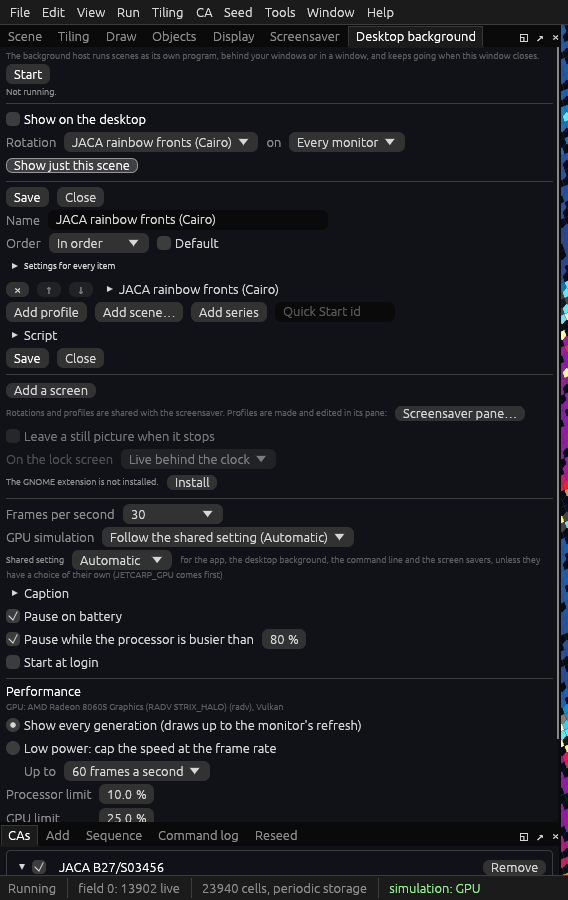
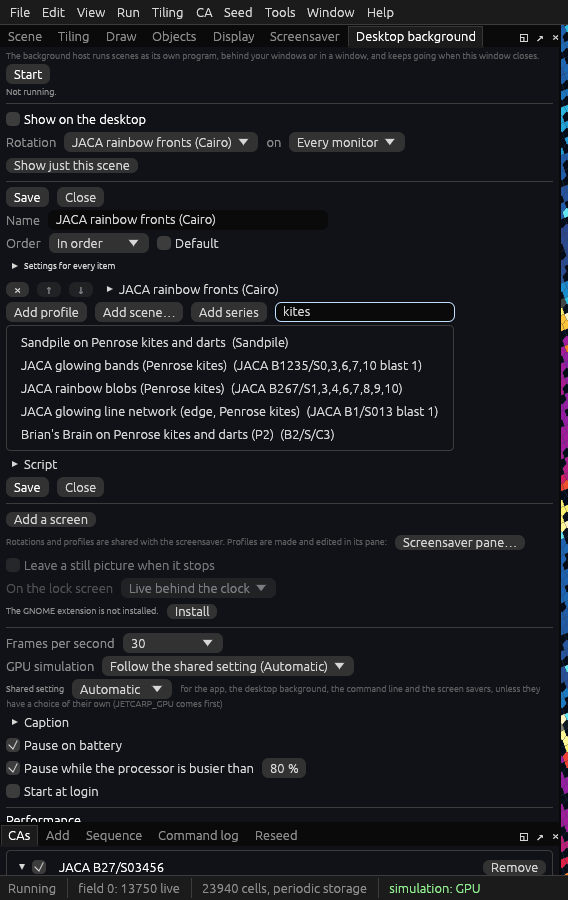
Book: the app as rc.3 has it: the tour's menus and panes, the rotation editor's Quick Start search, animation export, rule boxes, Width × height
- Tour: the Desktop background pane in the panes table, and the Screensaver pane
  without the background host it no longer holds; the menus checked against the
  app's menu table (View: Desktop background settings…, the Display pane; Tiling:
  Paste tile JSON…; Seed: Clear every CA); Run → GPU adapter beside GPU simulation.
- Rotations guide: a new picture of the editor, with kites typed into the Add
  Quick Start box and the entries it lists (#74), alt text to match.
- Pictures guide: Export animation's 2,000-frame limit, that an animation carries
  no scene, and Render media by its full name (#62); the scenes guide says app
  animations carry no scene either.
- Several automata: the rule box applies on Enter or losing focus, Esc gives up
  the edit (#61).
- HashLife guide: the jump's hover text as it now reads, with how to make a grid
  it can jump (#58); neighbour graphs: the Tiling pane's Size choices.

shots.rs: the rotation editor's picture types kites into the Add Quick Start
box and moves the pointer off the pane. Made with the offscreen harness in
scratch folders (JETCARP_CONFIG_DIR='~/.config/jetcarp' from a scratch folder),
as lossless WebP. The MCP server's copy of the book follows.

diff --git a/crates/jetcarp-app/src/app/shots.rs b/crates/jetcarp-app/src/app/shots.rs
@@ -580,9 +580,10 @@ fn shots_desktop_pane_cards() {
 /// Windows test had, JACA rainbow fronts on Cairo pentagons), the pane before and after *Show just
 /// this scene*: the scene saved as a profile and as a rotation of just that profile, the screen
 /// running it, the screensaver's choice untouched; pressed again, nothing more is made. Then the
-/// editor opened from the pane, with Save and Close above it, and a new rotation saved there,
-/// chosen for the screen alone. Pictures: `desktop-just-*.png`; `desktop-just-editor.png` is the
-/// book's `guides/rotation-editor-desktop-pane.webp` (`guides/rotations.md`).
+/// editor opened from the pane, with Save and Close above it and `kites` typed into its Add Quick
+/// Start box (#74), and a new rotation saved there, chosen for the screen alone. Pictures:
+/// `desktop-just-*.png`; `desktop-just-editor.png` is the book's
+/// `guides/rotation-editor-desktop-pane.webp` (`guides/rotations.md`).
 #[test]
 #[ignore]
 fn shots_desktop_show_just_this_scene() {
@@ -674,6 +675,14 @@ fn shots_desktop_show_just_this_scene() {
         top(&h, "Save").max.y < top(&h, "Name").min.y,
         "Save above the name"
     );
+    // The Add Quick Start box searched (#74): the entries matching what is typed, to click.
+    h.click_right_of("Add series");
+    h.frame_with(0.05, vec![egui::Event::Text("kites".into())]);
+    h.run(0.5, 0.05, |_| false);
+    h.find("Brian's Brain on Penrose kites and darts (P2)");
+    // The pointer off the pane, so no hover text covers the list.
+    let [w, ht] = h.o.size();
+    h.hover(egui::pos2(w as f32 - 2.0, ht as f32 - 2.0));
     h.steady();
     h.shot_part("desktop-just-editor", pane);
     let close = top(&h, "Close");

diff --git a/crates/jetcarp-mcp/resources/docs/getting-started/tour.md b/crates/jetcarp-mcp/resources/docs/getting-started/tour.md
@@ -65,8 +65,10 @@ one.) The world opens running, with the grid on the right and the panes on the l
   *Max speed* runs as fast as the computer can, and *GPU simulation* chooses where the world steps:
   *Follow the shared setting* (the default: the [GPU setting](../guides/gpu.md) all of JETCARP
   shares, which is automatic and puts worlds of 16,000 cells or more on the graphics card), *On*
-  every world it can run, *Off* none. The results are exactly the same. *Run → Jump* leaps far ahead with HashLife, for the rules it can
-  run (see [HashLife and very long runs](../guides/hashlife.md)).
+  every world it can run, *Off* none. The results are exactly the same. *GPU adapter*, below it,
+  chooses which graphics card JETCARP uses, on a computer with two (see
+  [The GPU](../guides/gpu.md#the-setting)). *Run → Jump* leaps far ahead with HashLife, for
+  the rules it can run (see [HashLife and very long runs](../guides/hashlife.md)).
 - **The menu bar's right end** shows the scene's name, whether it is running, the generation, the
   first digits of the [state hash](../guides/scenes.md#the-state-hash) (click it to copy all of it)
   and the frame rate. **The status bar** says whether the world is still changing, and counts its
@@ -89,7 +91,8 @@ The panes are in two groups of tabs, upper and lower:
 | *Draw* | The mouse's tool (*Pan*, *Draw* or *Erase*), which automaton it paints *Into*, and the state it paints | [Several automata at once](../guides/several-automata.md#in-the-app) |
 | *Objects* | *Find objects*: the still lifes, oscillators and spaceships in the world now, counted, and highlighted when you click a row | [Life on a new tiling](../tutorials/life-on-a-new-tiling.md) |
 | *Display* | Where the grid shows (this window, full screen, or full-screen *Outputs* on chosen monitors) and the cell size in pixels | [Wallpapers](../guides/wallpapers.md#screensaver-mode-in-the-app) |
-| *Screensaver* | Screensaver mode, its profiles and rotations, and the background host | [Wallpapers](../guides/wallpapers.md) |
+| *Screensaver* | Screensaver mode, its profiles and rotations, and the system screen saver's rotation | [Wallpapers](../guides/wallpapers.md#screensaver-mode-in-the-app) |
+| *Desktop background* | The background host: each screen's rotation and monitor, the lock screen, the still picture, how it runs, and *Fit to this computer* | [Wallpapers](../guides/wallpapers.md#the-desktop-background-pane) |
 | *CAs* | Each automaton in the world: its rule, neighbours, field, steps per generation, colouring and palette, with *Seed*, *Random* and *Clear* | [Several automata at once](../guides/several-automata.md), [Palettes](../guides/palettes.md) |
 | *Add* | Add an automaton from the catalog of named rules or by its notation, or load a rule table | [Rule notation](../reference/rule-notation.md), [Named rules](../automata/named-rules.md) |
 | *Sequence* | A scripted sequence: which automata run, and when to move on | [Several automata at once](../guides/several-automata.md) |
@@ -109,11 +112,11 @@ and *Window → Reset layout* puts everything back:
 | --- | --- |
 | *File* | *Quick Start*, *New empty world*, *Open scene…* and *Save scene…*, the picture exports (*Export the world as PNG…*, *Export the view as PNG…*, *Export animation (GIF or WebP)…*, *Export contact sheet…*, *Export wallpaper…*), *Quit* |
 | *Edit* | *Reset* (R: clear and seed every automaton again), *Clear every CA*, *Copy state hash*, *Paste a library pattern…* |
-| *View* | *Fit* and zoom, *Cell outlines*, the status bar and an auto-hiding menu bar, *Hide all panes*, *Pixel-exact zoom*, *Fill the canvas*, *Full screen*, *Show on outputs*, *Screensaver mode* and its settings, *Keep awake* |
+| *View* | *Fit* and zoom, *Cell outlines*, the status bar and an auto-hiding menu bar, *Hide all panes*, *Pixel-exact zoom*, *Fill the canvas*, *Full screen*, *Show on outputs*, *Screensaver mode* and its settings, *Desktop background settings…*, *Keep awake*, the *Display* pane |
 | *Run* | *Run / Pause*, *Step*, *Jump*, *Speed*, *Max speed*, *GPU simulation*, *GPU adapter* |
-| *Tiling* | The *Tiling* pane, *Family*, *Edges*, *Tiling catalog*, *Tile editor…*, *Unit cell editor…* |
+| *Tiling* | The *Tiling* pane, *Family*, *Edges*, *Tiling catalog*, *Tile editor…*, *Unit cell editor…*, *Paste tile JSON…* |
 | *CA* | *Add from catalog*, *Add by notation…*, *Load rule table…*, the *CAs* and *Sequence* panes, *Palettes…* |
-| *Seed* | *Seed every CA*, *Random cells in every CA*, each automaton's seed, *Reset*, the *Reseed* pane, *Reseed now*, *Auto reseed* |
+| *Seed* | *Seed every CA*, *Random cells in every CA*, each automaton's seed, *Clear every CA*, *Reset*, the *Reseed* pane, *Reseed now*, *Auto reseed* |
 | *Tools* | The tool windows below, *Sweep this world…*, the *Objects* pane |
 | *Window* | Every pane and tool window, *Hide all panes*, *Reset layout*, *Displays* |
 | *Help* | *Setup…* (the setup window again), *Keyboard shortcuts…* (F1), *About JETCARP…* |

diff --git a/docs/src/getting-started/tour.md b/docs/src/getting-started/tour.md
@@ -65,8 +65,10 @@ one.) The world opens running, with the grid on the right and the panes on the l
   *Max speed* runs as fast as the computer can, and *GPU simulation* chooses where the world steps:
   *Follow the shared setting* (the default: the [GPU setting](../guides/gpu.md) all of JETCARP
   shares, which is automatic and puts worlds of 16,000 cells or more on the graphics card), *On*
-  every world it can run, *Off* none. The results are exactly the same. *Run → Jump* leaps far ahead with HashLife, for the rules it can
-  run (see [HashLife and very long runs](../guides/hashlife.md)).
+  every world it can run, *Off* none. The results are exactly the same. *GPU adapter*, below it,
+  chooses which graphics card JETCARP uses, on a computer with two (see
+  [The GPU](../guides/gpu.md#the-setting)). *Run → Jump* leaps far ahead with HashLife, for
+  the rules it can run (see [HashLife and very long runs](../guides/hashlife.md)).
 - **The menu bar's right end** shows the scene's name, whether it is running, the generation, the
   first digits of the [state hash](../guides/scenes.md#the-state-hash) (click it to copy all of it)
   and the frame rate. **The status bar** says whether the world is still changing, and counts its
@@ -89,7 +91,8 @@ The panes are in two groups of tabs, upper and lower:
 | *Draw* | The mouse's tool (*Pan*, *Draw* or *Erase*), which automaton it paints *Into*, and the state it paints | [Several automata at once](../guides/several-automata.md#in-the-app) |
 | *Objects* | *Find objects*: the still lifes, oscillators and spaceships in the world now, counted, and highlighted when you click a row | [Life on a new tiling](../tutorials/life-on-a-new-tiling.md) |
 | *Display* | Where the grid shows (this window, full screen, or full-screen *Outputs* on chosen monitors) and the cell size in pixels | [Wallpapers](../guides/wallpapers.md#screensaver-mode-in-the-app) |
-| *Screensaver* | Screensaver mode, its profiles and rotations, and the background host | [Wallpapers](../guides/wallpapers.md) |
+| *Screensaver* | Screensaver mode, its profiles and rotations, and the system screen saver's rotation | [Wallpapers](../guides/wallpapers.md#screensaver-mode-in-the-app) |
+| *Desktop background* | The background host: each screen's rotation and monitor, the lock screen, the still picture, how it runs, and *Fit to this computer* | [Wallpapers](../guides/wallpapers.md#the-desktop-background-pane) |
 | *CAs* | Each automaton in the world: its rule, neighbours, field, steps per generation, colouring and palette, with *Seed*, *Random* and *Clear* | [Several automata at once](../guides/several-automata.md), [Palettes](../guides/palettes.md) |
 | *Add* | Add an automaton from the catalog of named rules or by its notation, or load a rule table | [Rule notation](../reference/rule-notation.md), [Named rules](../automata/named-rules.md) |
 | *Sequence* | A scripted sequence: which automata run, and when to move on | [Several automata at once](../guides/several-automata.md) |
@@ -109,11 +112,11 @@ and *Window → Reset layout* puts everything back:
 | --- | --- |
 | *File* | *Quick Start*, *New empty world*, *Open scene…* and *Save scene…*, the picture exports (*Export the world as PNG…*, *Export the view as PNG…*, *Export animation (GIF or WebP)…*, *Export contact sheet…*, *Export wallpaper…*), *Quit* |
 | *Edit* | *Reset* (R: clear and seed every automaton again), *Clear every CA*, *Copy state hash*, *Paste a library pattern…* |
-| *View* | *Fit* and zoom, *Cell outlines*, the status bar and an auto-hiding menu bar, *Hide all panes*, *Pixel-exact zoom*, *Fill the canvas*, *Full screen*, *Show on outputs*, *Screensaver mode* and its settings, *Keep awake* |
+| *View* | *Fit* and zoom, *Cell outlines*, the status bar and an auto-hiding menu bar, *Hide all panes*, *Pixel-exact zoom*, *Fill the canvas*, *Full screen*, *Show on outputs*, *Screensaver mode* and its settings, *Desktop background settings…*, *Keep awake*, the *Display* pane |
 | *Run* | *Run / Pause*, *Step*, *Jump*, *Speed*, *Max speed*, *GPU simulation*, *GPU adapter* |
-| *Tiling* | The *Tiling* pane, *Family*, *Edges*, *Tiling catalog*, *Tile editor…*, *Unit cell editor…* |
+| *Tiling* | The *Tiling* pane, *Family*, *Edges*, *Tiling catalog*, *Tile editor…*, *Unit cell editor…*, *Paste tile JSON…* |
 | *CA* | *Add from catalog*, *Add by notation…*, *Load rule table…*, the *CAs* and *Sequence* panes, *Palettes…* |
-| *Seed* | *Seed every CA*, *Random cells in every CA*, each automaton's seed, *Reset*, the *Reseed* pane, *Reseed now*, *Auto reseed* |
+| *Seed* | *Seed every CA*, *Random cells in every CA*, each automaton's seed, *Clear every CA*, *Reset*, the *Reseed* pane, *Reseed now*, *Auto reseed* |
 | *Tools* | The tool windows below, *Sweep this world…*, the *Objects* pane |
 | *Window* | Every pane and tool window, *Hide all panes*, *Reset layout*, *Displays* |
 | *Help* | *Setup…* (the setup window again), *Keyboard shortcuts…* (F1), *About JETCARP…* |

diff --git a/crates/jetcarp-mcp/resources/docs/guides/rotations.md b/crates/jetcarp-mcp/resources/docs/guides/rotations.md
@@ -66,7 +66,7 @@ screen. For the screensaver, set *Show* to *A rotation* in the *Screensaver* pan
 rotation's name are *Edit*, *New*, *Duplicate* and, for one of your own, *Delete* (for an edited
 built-in rotation, *Revert to built-in*). It is the same editor in both:
 
-<img src="../images/guides/rotation-editor-desktop-pane.webp" alt="The Desktop background pane with the rotation editor open under the screen's rotation, JACA rainbow fronts (Cairo): Save and Close at the top; Name; Order In order, Default unticked; Settings for every item; the one item, JACA rainbow fronts (Cairo), with its remove and move buttons; Add profile, Add scene…, Add series and a box for a Quick Start id; Script; and Save and Close again at the foot" width="568">
+<img src="../images/guides/rotation-editor-desktop-pane.webp" alt="The Desktop background pane with the rotation editor open under the screen's rotation, JACA rainbow fronts (Cairo): Save and Close at the top; Name; Order In order, Default unticked; Settings for every item; the one item, JACA rainbow fronts (Cairo), with its remove and move buttons; Add profile, Add scene…, Add series and the Add Quick Start box, with kites typed in it and the five matching entries listed below it, Brian's Brain on Penrose kites and darts (P2) among them; Script; and Save and Close again at the foot" width="568">
 
 The editor has:
 
@@ -105,7 +105,7 @@ To show only the scene open in the app, no editor is needed: *Show just this sce
 and *New* in the *Desktop background* pane, saves it as a profile and as a rotation of just that
 profile, and chooses the rotation for that screen (see
 [The Desktop background pane](wallpapers.md#the-desktop-background-pane)). The picture above is of
-such a rotation, opened with *Edit*.
+such a rotation, opened with *Edit*, with `kites` typed into the *Add Quick Start* box.
 
 ## Rotation files
 

diff --git a/docs/src/guides/rotations.md b/docs/src/guides/rotations.md
@@ -66,7 +66,7 @@ screen. For the screensaver, set *Show* to *A rotation* in the *Screensaver* pan
 rotation's name are *Edit*, *New*, *Duplicate* and, for one of your own, *Delete* (for an edited
 built-in rotation, *Revert to built-in*). It is the same editor in both:
 
-<img src="../images/guides/rotation-editor-desktop-pane.webp" alt="The Desktop background pane with the rotation editor open under the screen's rotation, JACA rainbow fronts (Cairo): Save and Close at the top; Name; Order In order, Default unticked; Settings for every item; the one item, JACA rainbow fronts (Cairo), with its remove and move buttons; Add profile, Add scene…, Add series and a box for a Quick Start id; Script; and Save and Close again at the foot" width="568">
+<img src="../images/guides/rotation-editor-desktop-pane.webp" alt="The Desktop background pane with the rotation editor open under the screen's rotation, JACA rainbow fronts (Cairo): Save and Close at the top; Name; Order In order, Default unticked; Settings for every item; the one item, JACA rainbow fronts (Cairo), with its remove and move buttons; Add profile, Add scene…, Add series and the Add Quick Start box, with kites typed in it and the five matching entries listed below it, Brian's Brain on Penrose kites and darts (P2) among them; Script; and Save and Close again at the foot" width="568">
 
 The editor has:
 
@@ -105,7 +105,7 @@ To show only the scene open in the app, no editor is needed: *Show just this sce
 and *New* in the *Desktop background* pane, saves it as a profile and as a rotation of just that
 profile, and chooses the rotation for that screen (see
 [The Desktop background pane](wallpapers.md#the-desktop-background-pane)). The picture above is of
-such a rotation, opened with *Edit*.
+such a rotation, opened with *Edit*, with `kites` typed into the *Add Quick Start* box.
 
 ## Rotation files
 

diff --git a/crates/jetcarp-mcp/resources/docs/guides/pictures.md b/crates/jetcarp-mcp/resources/docs/guides/pictures.md
@@ -27,10 +27,12 @@ the screen's resolution (the grid's size in pixels, or the outputs' span when th
 outputs), with tile outlines as *View → Cell outlines* has them.
 
 *File → Export animation (GIF or WebP)…* records the view as it is now and the generations after
-it: choose how many generations, a frame every how many, the longer side in pixels and the format
-(GIF, or lossless WebP for worlds with more than 256 colours), then *Export…*. It steps a copy of
-the world on the processor in the background, so the app runs on meanwhile, and the frames play at
-the world's speed. (The hunts window's *Render media* makes animations of its finds instead.)
+it: choose how many generations, a frame every how many (up to 2,000 frames in all), the longer side
+in pixels and the format (GIF, or lossless WebP for worlds with more than 256 colours), then
+*Export…*. It steps a copy of the world on the processor in the background, so the app runs on
+meanwhile, and the frames play at the world's speed. Like the media below, an animation does not
+carry its scene. (The *Hunts* window's *Render media (animations of these finds)*, beside a hunt's
+finds, makes animations of the finds instead, as `jetcarp media render` does.)
 
 **On the command line**, `jetcarp run` writes a picture of the state it ends in:
 

diff --git a/docs/src/guides/pictures.md b/docs/src/guides/pictures.md
@@ -27,10 +27,12 @@ the screen's resolution (the grid's size in pixels, or the outputs' span when th
 outputs), with tile outlines as *View → Cell outlines* has them.
 
 *File → Export animation (GIF or WebP)…* records the view as it is now and the generations after
-it: choose how many generations, a frame every how many, the longer side in pixels and the format
-(GIF, or lossless WebP for worlds with more than 256 colours), then *Export…*. It steps a copy of
-the world on the processor in the background, so the app runs on meanwhile, and the frames play at
-the world's speed. (The hunts window's *Render media* makes animations of its finds instead.)
+it: choose how many generations, a frame every how many (up to 2,000 frames in all), the longer side
+in pixels and the format (GIF, or lossless WebP for worlds with more than 256 colours), then
+*Export…*. It steps a copy of the world on the processor in the background, so the app runs on
+meanwhile, and the frames play at the world's speed. Like the media below, an animation does not
+carry its scene. (The *Hunts* window's *Render media (animations of these finds)*, beside a hunt's
+finds, makes animations of the finds instead, as `jetcarp media render` does.)
 
 **On the command line**, `jetcarp run` writes a picture of the state it ends in:
 

diff --git a/crates/jetcarp-mcp/resources/docs/guides/hashlife.md b/crates/jetcarp-mcp/resources/docs/guides/hashlife.md
@@ -52,9 +52,11 @@ sequence installed, cannot be jumped in place.
 `2^40` or `1e6`, and three choices:
 
 - **Jump ahead (HashLife)** jumps the world in place. When the world does not qualify, the button is
-  greyed out and hovering over it says why (for example, *HashLife needs a torus whose sides are powers
-  of two (this one is 200 × 140 unit cells)*). To make one, set the Tiling pane's *Size* to *Width ×
-  height*, type sides such as 256 × 256 (in unit cells), and choose *Wrap* edges.
+  greyed out and hovering over it says why, and what to do (for example, *HashLife needs a torus
+  whose sides are powers of two (this one is 200 × 140 unit cells): make one with sides like
+  256 × 256 (the app's Tiling pane: Size, Width × height; the command line: --size 256x256), with
+  wrap edges*). So set the Tiling pane's *Size* to *Width × height*, type sides such as 256 × 256
+  (in unit cells), and choose *Wrap* edges.
 - **On the unbounded plane** shows the same frame after that many generations on the plane, as a new
   world named after the old one (*… +1000000 (HashLife plane)*).
 - **HashLife view…** opens the pattern on the plane in a window of its own, also under *Tools →

diff --git a/docs/src/guides/hashlife.md b/docs/src/guides/hashlife.md
@@ -52,9 +52,11 @@ sequence installed, cannot be jumped in place.
 `2^40` or `1e6`, and three choices:
 
 - **Jump ahead (HashLife)** jumps the world in place. When the world does not qualify, the button is
-  greyed out and hovering over it says why (for example, *HashLife needs a torus whose sides are powers
-  of two (this one is 200 × 140 unit cells)*). To make one, set the Tiling pane's *Size* to *Width ×
-  height*, type sides such as 256 × 256 (in unit cells), and choose *Wrap* edges.
+  greyed out and hovering over it says why, and what to do (for example, *HashLife needs a torus
+  whose sides are powers of two (this one is 200 × 140 unit cells): make one with sides like
+  256 × 256 (the app's Tiling pane: Size, Width × height; the command line: --size 256x256), with
+  wrap edges*). So set the Tiling pane's *Size* to *Width × height*, type sides such as 256 × 256
+  (in unit cells), and choose *Wrap* edges.
 - **On the unbounded plane** shows the same frame after that many generations on the plane, as a new
   world named after the old one (*… +1000000 (HashLife plane)*).
 - **HashLife view…** opens the pattern on the plane in a window of its own, also under *Tools →

diff --git a/crates/jetcarp-mcp/resources/docs/guides/several-automata.md b/crates/jetcarp-mcp/resources/docs/guides/several-automata.md
@@ -64,7 +64,9 @@ and the format is in [Scene file format](../reference/scene-format.md#script-and
   [notation](../reference/rule-notation.md) such as `B36/S23` or `Ant RLR`), or *CA → Load rule
   table…*.
 - **The CAs pane** has one card per automaton. Its header has the checkbox that runs it, its name and
-  notation, and *Remove*. Inside are the rule, the neighbourhood (*Touching* or *Edge*), the
+  notation, and *Remove*. Inside are the rule (a box: type another rule and press Enter, or click
+  elsewhere, to apply it; Esc puts the current one back; a JACA card has a box for each sign's
+  rule), the neighbourhood (*Touching* or *Edge*), the
   *Affects others* checkbox with the field it is on (for example *field 0 · shared binary · 3 CAs*),
   *Steps per generation*, *Colour by*, *Palette*, and the *Seed*, *Random* and *Clear* buttons. Ant
   cards add *+ Ant* and what ants do at a dead edge (*Edge: bounce* or *Edge: fall off*).

diff --git a/docs/src/guides/several-automata.md b/docs/src/guides/several-automata.md
@@ -64,7 +64,9 @@ and the format is in [Scene file format](../reference/scene-format.md#script-and
   [notation](../reference/rule-notation.md) such as `B36/S23` or `Ant RLR`), or *CA → Load rule
   table…*.
 - **The CAs pane** has one card per automaton. Its header has the checkbox that runs it, its name and
-  notation, and *Remove*. Inside are the rule, the neighbourhood (*Touching* or *Edge*), the
+  notation, and *Remove*. Inside are the rule (a box: type another rule and press Enter, or click
+  elsewhere, to apply it; Esc puts the current one back; a JACA card has a box for each sign's
+  rule), the neighbourhood (*Touching* or *Edge*), the
   *Affects others* checkbox with the field it is on (for example *field 0 · shared binary · 3 CAs*),
   *Steps per generation*, *Colour by*, *Palette*, and the *Seed*, *Random* and *Clear* buttons. Ant
   cards add *+ Ant* and what ants do at a dead edge (*Edge: bounce* or *Edge: fall off*).

diff --git a/crates/jetcarp-mcp/resources/docs/tilings/neighbour-graphs.md b/crates/jetcarp-mcp/resources/docs/tilings/neighbour-graphs.md
@@ -82,7 +82,8 @@ overlaps and gaps.
 ### Size and edges
 
 A periodic world is a rectangle of whole unit cells, given either as a number of cells (roughly
-square) or as a width and height in unit cells. Its edges can be *dead* (cells beyond count as empty),
+square) or as a width and height in unit cells (in the app, the *Tiling* pane's *Size*: *About …*
+or *Width × height*). Its edges can be *dead* (cells beyond count as empty),
 *wrapped* (a torus, so the tiling has no edges at all) or *live* (cells beyond count as alive). An
 aperiodic world is a patch of a chosen *level*, from 10 tiles at level 1 to about 35,000 at level 5 and
 about 18 million at level 8, always the tiles nearest a fixed centre, so smaller patches sit inside
